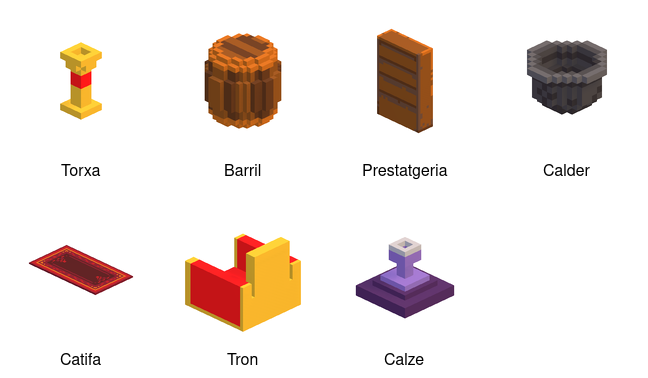
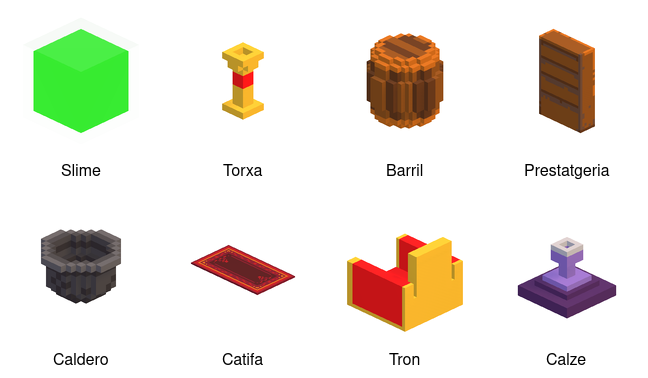
Memoria: slime real (asset voxel) en su figura, quitar seccion de decisiones, primera persona y captions sin suelo cayendo

diff --git a/Memoria/memoria.tex b/Memoria/memoria.tex
@@ -124,11 +124,9 @@ descàrregues.
 
 \subsection{Equip i tecnologies}
 
-L'equip està format per \textbf{dues persones} (Carolina i Mateus) que han
-treballat a parts iguals, repartint-se les sales i les capes de codi (vegeu la
-Secció~\ref{sec:metodologia}). Pel que fa al perfil, tots dos som estudiants del
-grau d'Enginyeria Informàtica de la FIB amb coneixements de C\# i Unity adquirits
-a l'assignatura. La tecnologia emprada és:
+Som \textbf{dues persones} (Carolina i Mateus) i hem treballat a parts iguals,
+repartint-nos les sales i les capes de codi (vegeu la
+Secció~\ref{sec:metodologia}). La tecnologia que hem fet servir és:
 
 \begin{itemize}[noitemsep]
     \item \textbf{Unity 6000.0.74f1} amb el pipeline de render \textbf{URP}.
@@ -301,27 +299,28 @@ aprecia l'estil voxel coherent en tot l'escenari.}
 
 \subsubsection{Entitats del joc}
 
-A continuació es mostra, individualment, cada entitat que apareix al joc. Els
-personatges (jugador i enemics) es generen per codi amb primitius i materials
-URP; la resta són models voxel. La Figura~\ref{fig:ent_chars} recull el jugador i
-els enemics, la Figura~\ref{fig:ent_deco} les decoracions i la
-Figura~\ref{fig:ent_traps} els elements de trampes, monedes i projectils.
+A continuació es mostra, individualment, cada entitat que apareix al joc. El
+jugador i els enemics gnome, mag i boss es generen per codi amb primitius i
+materials URP (Figura~\ref{fig:ent_chars}); l'slime i les decoracions són models
+voxel (Figura~\ref{fig:ent_deco}); i la Figura~\ref{fig:ent_traps} recull els
+elements de les trampes, la moneda i la fletxa.
 
 \begin{figure}[H]
 \centering
 \includegraphics[width=\linewidth]{captures/entities_characters.png}
-\caption{Personatges del joc: el jugador (heroi amb espasa, es mou casella a
-casella), el \textit{slime} (enemic bàsic que salta i deixa rastre), el
-\textit{gnome}, el \textit{mag} (enemic que acompanya el boss) i el \textit{boss}
-final (esquelet rei amb corona, escut i espasa).}
+\caption{Personatges generats per codi (primitius i materials URP): el jugador
+(heroi amb espasa, es mou casella a casella), el \textit{gnome}, el \textit{mag}
+(enemic que acompanya el boss) i el \textit{boss} final (esquelet rei amb corona,
+escut i espasa).}
 \label{fig:ent_chars}
 \end{figure}
 
 \begin{figure}[H]
 \centering
 \includegraphics[width=\linewidth]{captures/entities_decorations.png}
-\caption{Decoracions de les sales (més de 5 de diferents, sense comptar les
-parets): torxa, barril, prestatgeria, calderó, catifa, tron i calze.}
+\caption{Models voxel del joc: l'enemic \textit{slime} (salta per la sala i deixa
+un rastre que alenteix) i les decoracions (més de 5 de diferents, sense comptar
+les parets): torxa, barril, prestatgeria, calderó, catifa, tron i calze.}
 \label{fig:ent_deco}
 \end{figure}
 
@@ -380,8 +379,8 @@ té resposta visual i sonora:
 \begin{figure}[H]
 \centering
 \includegraphics[width=0.8\linewidth]{captures/lvl09.png}
-\caption{Sala avançada amb el terra caient per files (s'hi veuen els forats al
-terra) i diverses trampes. La barra de progrés del HUD indica les sales superades.}
+\caption{Sala avançada de la masmorra amb diverses trampes. La barra de progrés
+del HUD (a la part superior) indica les sales superades.}
 \label{fig:falling}
 \end{figure}
 
@@ -393,8 +392,8 @@ mena cap al tron. En aquesta sala el mag acompanya el boss.}
 \label{fig:boss}
 \end{figure}
 
-Les figures~\ref{fig:falling} i~\ref{fig:boss} mostren, respectivament, la
-mecànica del terra que cau i la sala final amb el boss.
+Les figures~\ref{fig:falling} i~\ref{fig:boss} mostren, respectivament, una sala
+avançada amb trampes i la sala final amb el boss.
 
 \subsection{Assets i recursos externs}
 \label{sec:assets}
@@ -423,29 +422,6 @@ Pel que fa al \textbf{codi}, és \textbf{100\,\% propi}. Hem fet servir un
 videotutorial de YouTube (citat a la bibliografia) com a orientació per a
 plantejar el comportament dels enemics i del jugador, però \textbf{no hem
 reutilitzat cap línia de codi} de cap font externa.
-
-\subsection{Decisions de disseny}
-
-Algunes decisions concretes que hem pres o desestimat:
-
-\begin{itemize}[noitemsep]
-    \item \textbf{Presa:} moviment \textbf{casella a casella} (a saltirons) en
-    lloc de moviment lliure, per acostar-nos al \textit{Looty Dungeon} original.
-    En conseqüència es va \textbf{eliminar el dash} que teníem en una versió
-    prèvia.
-    \item \textbf{Presa:} definir les sales en \textbf{JSON}, cosa que en facilita
-    l'edició ràpida sense recompilar.
-    \item \textbf{Presa:} \textbf{generar per codi} els visuals del jugador i els
-    enemics sense model propi, evitant dependències pesades i permetent prototipar
-    el joc sencer abans de tenir tots els models.
-    \item \textbf{Presa:} \textbf{objectius per sala} (recollir monedes) com a
-    bonificació, i una \textbf{gràcia inicial} abans que el terra comenci a caure,
-    per no perdre vida només entrar.
-    \item \textbf{Desestimada:} \textit{leaderboard} en línia, substituïda per
-    persistència local de la millor partida amb \texttt{PlayerPrefs}.
-    \item \textbf{Desestimat:} sistema d'inventari i objectes consumibles, fora de
-    l'abast del projecte.
-\end{itemize}
 
 % ===== 3. Metodologia =====
 \section{Metodologia}

diff --git a/Assets/Scripts/Editor/EntityCapture.cs b/Assets/Scripts/Editor/EntityCapture.cs
@@ -14,7 +14,6 @@ public static class EntityCapture
     private static readonly (string type, string file)[] Characters =
     {
         ("__player", "entity_player"),
-        ("Slime", "entity_slime"),
         ("Gnome", "entity_gnome"),
         ("Wizard", "entity_wizard"),
         ("Boss", "entity_boss"),
@@ -22,6 +21,7 @@ public static class EntityCapture
 
     private static readonly (string prefab, string file)[] Prefabs =
     {
+        ("Assets/Prefabs/Slime.prefab", "entity_slime"),
         ("Assets/Prefabs/Barrel.prefab", "entity_barrel"),
         ("Assets/Prefabs/BookshelfA.prefab", "entity_bookshelf"),
         ("Assets/Prefabs/Cauldron.prefab", "entity_cauldron"),